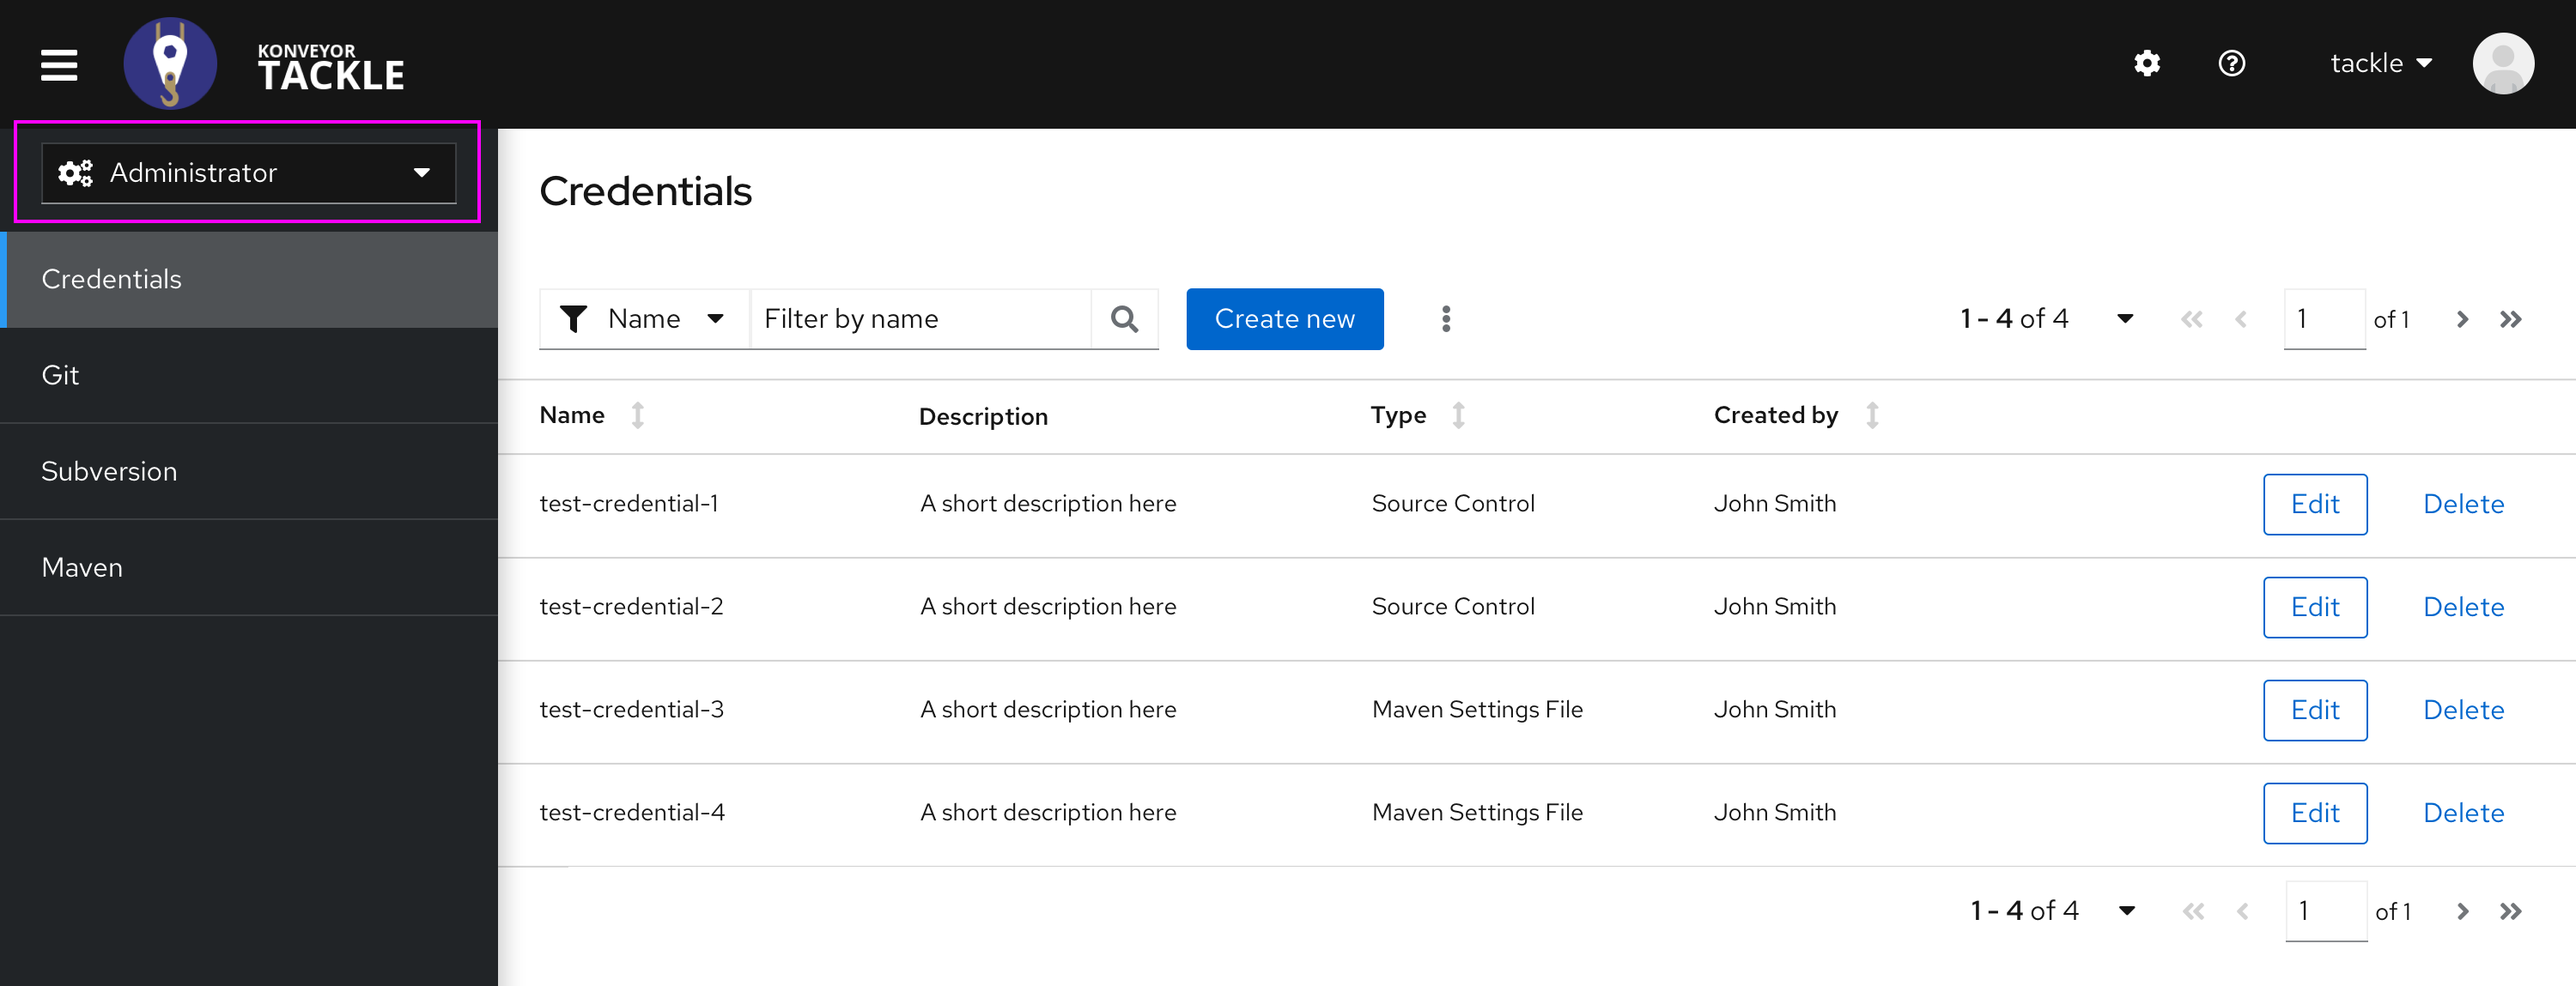
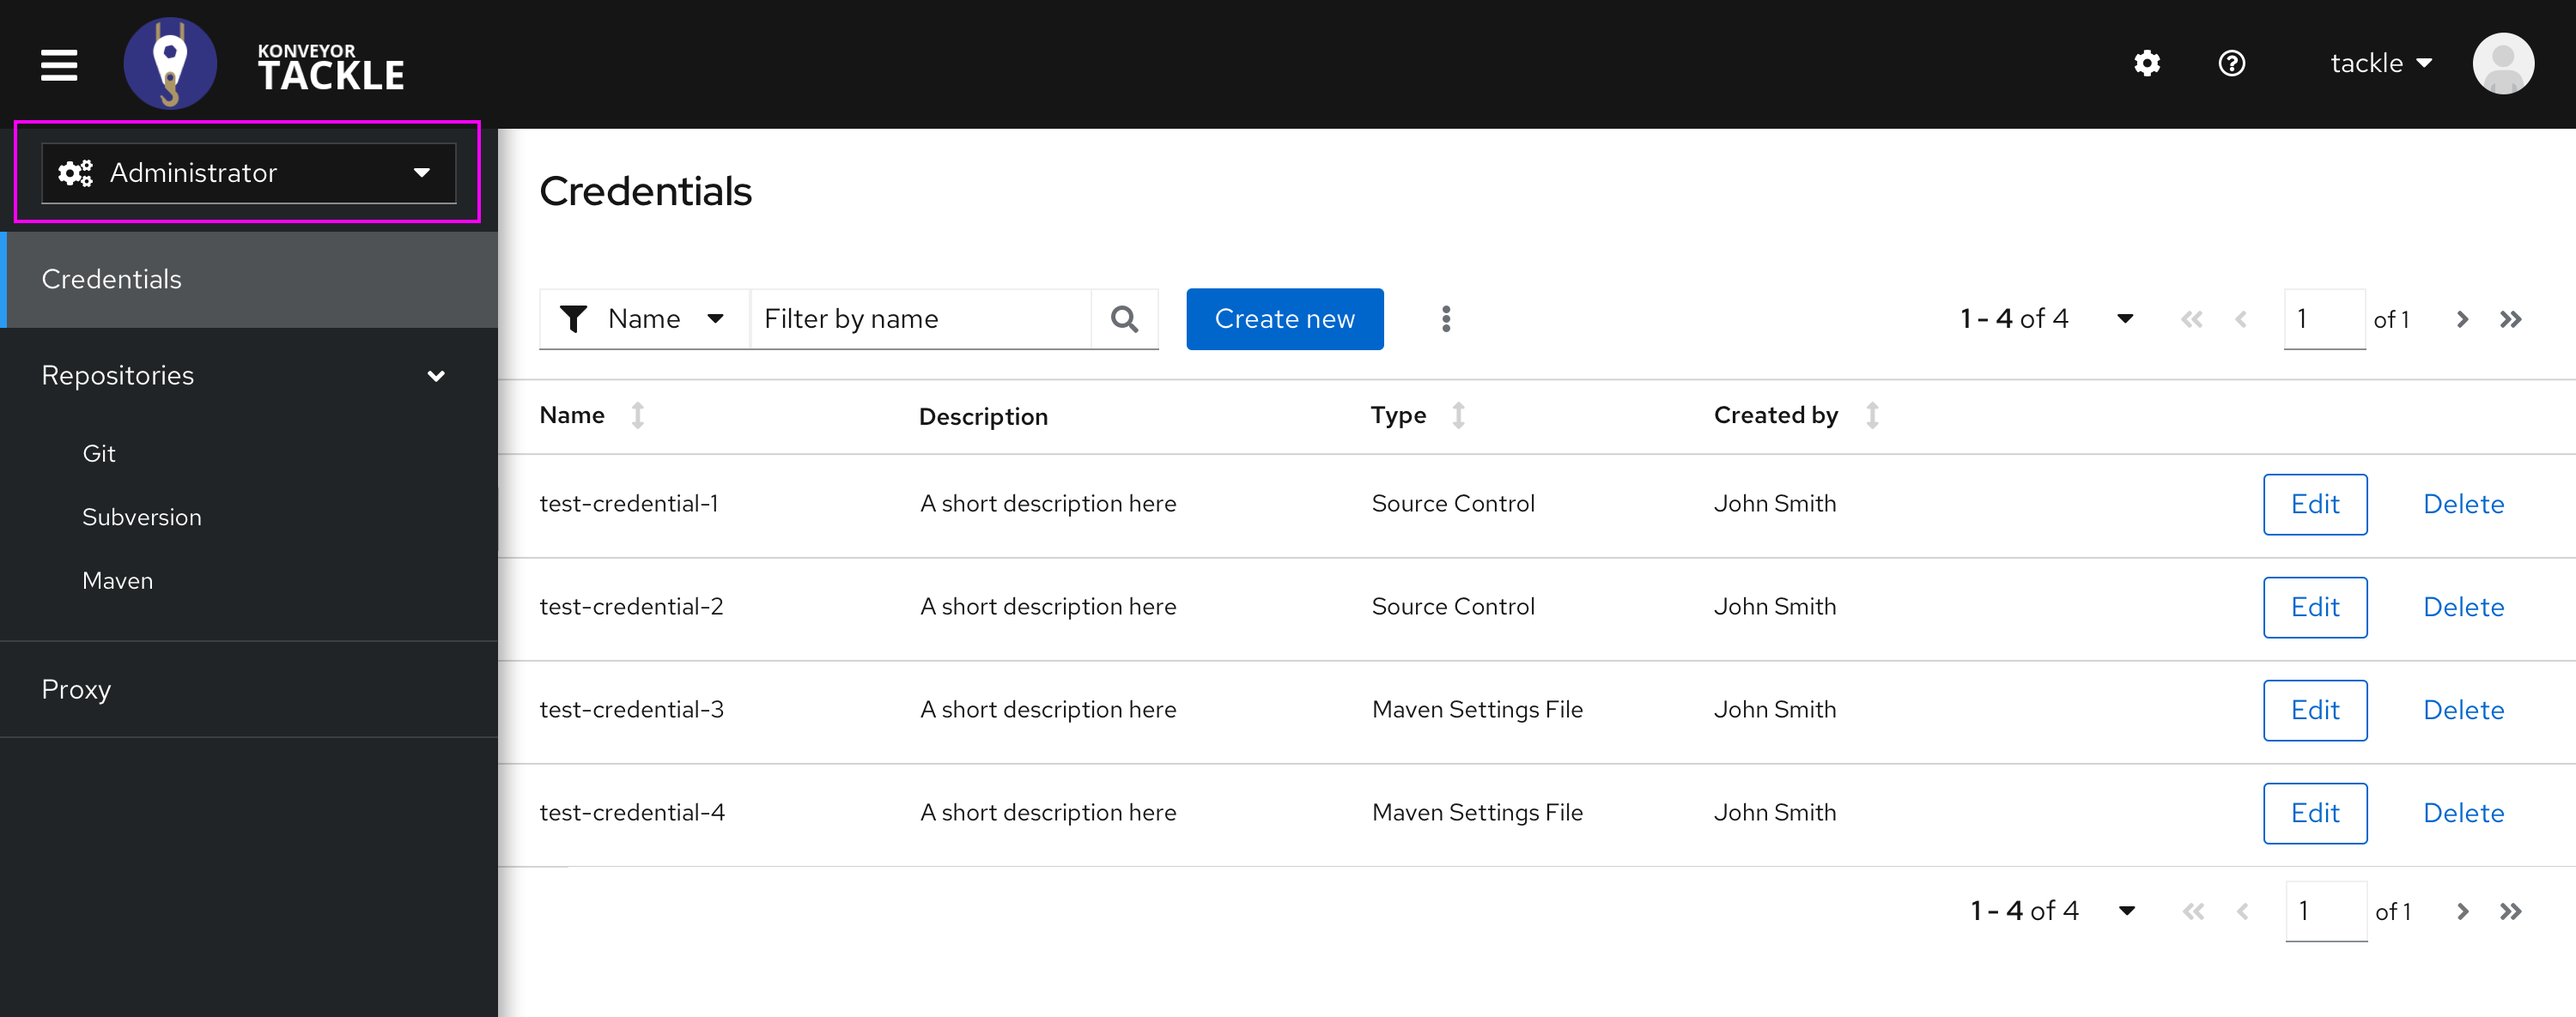
Added new sections.

diff --git a/enhancements/tackle/tackle-git-maven-integration/README.md b/enhancements/tackle/tackle-git-maven-integration/README.md
@@ -7,7 +7,7 @@ reviewers:
 approvers:
   - TBD
 creation-date: 2021-11-20
-last-updated: 2022-01-50
+last-updated: 2022-01-12
 status: provisional
 see-also:
   -   
@@ -29,7 +29,7 @@ superseded-by:
 
 ## Open Questions
 
-
+None so far.
 
 
 ## Summary
@@ -121,7 +121,9 @@ A member of the operations or security team of the organization undergoing the a
 
 *As an Architect I want to be able to assign existing credentials to applications on a per application or bulk basis.*
 
+##### CM008
 
+*As a Migrator or an Architect I want to be able to filter applications by the type of credentials assigned to it*
 
 #### Git Configuration
 
@@ -141,6 +143,10 @@ A member of the operations or security team of the organization undergoing the a
 ##### GC004
 
 *As an Architect I want to be able to associate a Git repository to an application.*
+
+##### GC005
+
+*As a Migrator or an Architect I want to be able to filter applications by having a Git repository assigned*
 
 
 
@@ -162,6 +168,10 @@ A member of the operations or security team of the organization undergoing the a
 ##### SC004
 
 *As an Architect I want to be able to associate a Subversion repository to an application.*
+
+##### SC005
+
+*As a Migrator or an Architect I want to be able to filter applications by having a Subversion repository assigned*
 
 #### Maven Configuration
 
@@ -189,6 +199,10 @@ A member of the operations or security team of the organization undergoing the a
 ##### MC006
 
 *As an Architect I want to be able to associate an artifact with an application.*
+
+##### MC007
+
+*As a Migrator or an Architect I want to be able to filter applications by having a Maven artifact assigned*
 
 
 #### Proxy Configuration
@@ -396,6 +410,8 @@ Clicking on the "Git" suboption under the "Repositories" option on the left menu
   - Acquire by performing a full clone on each analysis.
 - Consume insecure Git repositories: Switch.
 
+![Git Configuration](images/git-config.png?raw=true "Git Configuration")
+
 #### Subversion Configuration
 
 ##### Related Use Cases
@@ -418,6 +434,8 @@ Clicking on the "Subversion" suboption under the "Repositories" option on the le
   - Acquire via an update.
   - Acquire by performing a full checkout on each analysis.
 - Consume insecure Subversion repositories: Switch.
+
+![Subversion Configuration](images/svn-config.png?raw=true "Subversion Configuration")
 
 
 #### Maven Configuration
@@ -444,7 +462,13 @@ Clicking on the "Maven" suboption under the "Repositories" option on the left me
 - Force update of dependencies: Switch. Disabled by default.
 - Consume insecure artifact repositories: Switch. Disabled by default.
 
+![Maven Configuration](images/maven-config.png?raw=true "Maven Configuration")
+
 The view must include a button "Clear repository" to purge the local Maven repository. Clicking on it will open a confirmation window with the following message: *This will clear the local Maven repository and considerably slow down builds until dependencies are collected again. Do you wish to continue?*.
+
+It would be advisable to include tooltips to explain fields:
+
+![Maven Configuration](images/maven-config-onhover.png?raw=true "Maven Configuration")
 
 
 #### Proxy Configuration
@@ -471,15 +495,21 @@ The Proxy configuration view can be reached by clicking on the “Proxy” optio
 - HTTP proxy: Switch, disabled by default.
 - HTTPS proxy: Switch, disabled by default.
 
+![Proxy Configuration](images/proxy-config.png?raw=true "Proxy Configuration")
+
 Enabling the "HTTP proxy" switch will dynamically load the following nested fields:
 
 - HTTP proxy host: String
 - HTTP proxy port: Numeric
 - Authentication: Switch, disabled by default.
 
+![Proxy Configuration](images/proxy-config-http.png?raw=true "Proxy Configuration")
+
 If the user enables the "Authentication" switch, the following nested field will load dynamically:
 
 - HTTP proxy credentials: Dropdown, single selection. Values are populated from available Proxy credentials.
+
+![Proxy Configuration](images/proxy-config-http-auth.png?raw=true "Proxy Configuration")
 
 Similarly, if the user enables the "HTTPS proxy" switch, the following nested fields will be loaded dynamically:
 
@@ -487,9 +517,13 @@ Similarly, if the user enables the "HTTPS proxy" switch, the following nested fi
 - HTTPS proxy port: Numeric
 - Authentication: Switch, disabled by default.
 
+![Proxy Configuration](images/proxy-config-https.png?raw=true "Proxy Configuration")
+
 In the same fashion as before, if the user enables the "Authentication" switch, the following nested field will load dynamically:
 
 - HTTPS proxy credentials: Dropdown, single selection. Values are populated from available Proxy credentials.
+
+![Proxy Configuration](images/proxy-config-https-auth.png?raw=true "Proxy Configuration")
 
 Enabling any of the "HTTP proxy" or "HTTPS proxy" switches will dynamically load the following field at the bottom of the screen:
 
@@ -511,12 +545,62 @@ This field should not look nested to either of the switches, as it applies to bo
 
 ##### Description
 
+###### Bulk Assignment
 
-#### Assign Credentials to Applications
+The Application Inventory view will include a new button “Manage Credentials” in the kebab menu of the main table. This button will be enabled only if at least one application has been selected on the table below.
+
+
+![Bulk Assignment](images/assign-credentials-bulk.png?raw=true "Bulk Assignment")
+
+
+Clicking on the button will open a modal window with the following fields:
+
+
+- Selected applications: List of the selected applications. Non-editable.
+- Source credentials: Dropdown
+- Maven settings: Dropdown
+
+![Bulk Assignment](images/assign-credentials-bulk-modal.png?raw=true "Bulk Assignment")
+
+If all the applications selected happen to have the same values for a field, it will appear selected. If not, the field will appear with no selection. The values for each field will come from the list of credentials already available in the system:
+
+- The Source credentials dropdown will display a list with all Source credentials available on the system.
+- The Maven credentials dropdown will display a list of all Maven Settings file credentials available on the system.
+
+![Bulk Assignment](images/assign-credentials-bulk-modal-filled.png?raw=true "Bulk Assignment")
+
+If any of the applications already has any credentials assigned, a warning should be displayed on the modal window.
+
+Clicking on Save will assign the credentials to the selected applications. After the assignment is done, credentials type should appear on the expandable section for each application details:
+
+![Bulk Assignment](images/assign-credentials-bulk-result.png?raw=true "Bulk Assignment")
+
+Possible values will be Source and Source & Maven.
+
+
+###### Individual Assignment
+
+Credentials can also be assigned on a per application basis. The kebab menu on each application row will include a new option "Manage credentials".
+
+![Individual Assignment](images/assign-credentials-single.png?raw=true "Individual Assignment")
+
+This will open a modal window with the following fields:
+
+- Application: Selected application. Non-editable.
+- Source credentials: Dropdown
+- Maven settings: Dropdown
+
+![Individual Assignment](images/assign-credentials-single-modal.png?raw=true "Individual Assignment")
+
+The Save button won't be enabled unless changes are made on any of the editable fields.
+
+#### Repository configuration at Application level
 
 ##### Related Use Cases
 
-- [CM006](#CM006)
+- [GC004](#GC004)
+- [SC004](#SC004)
+- [MC006](#MC006)
 
 ##### Involved Personas
 
@@ -525,6 +609,70 @@ This field should not look nested to either of the switches, as it applies to bo
 
 ##### Description
 
+Application creation and edition modal windows will be rearranged to accommodate repository information. The windows will be divided in three expandable sections, with different field on each one of them:
+
+-  Basic Information:
+  - Name: String. Required.
+  - Description: Textbox.
+  - Business service: Dropdown. Multiple selection. Values are populated from the list of available Business Services.
+  - Tags: Dropdown. Multiple selection. Values are populated from the list of available Tags.
+  - Comments: Textbox.
+
+![Repository configuration](images/new-app-basic.png?raw=true "Repository configuration")
+
+- Source code:
+  - Source repository: String. Required if either Branch or Root path have any value.
+  - Branch: String.
+  - Root path: String.
+
+![Repository configuration](images/new-app-source.png?raw=true "Repository configuration")
+
+- Binary:
+  - Group: String. Required if any other field from the Binary section has a value.
+  - Artifact: String. Required if any other field from the Binary section has a value.
+  - Version: String. Required if any other field from the Binary section has a value.
+  - Repository URL: String. Required if any other field from the Binary section has a value.
+
+![Repository configuration](images/new-app-binary.png?raw=true "Repository configuration")
+
+Some validations rules will be required, as source and binary fields are not mandatory but partially filling them shouldn't be allowed. If the user enters partial values on the Source or Binary sections, validation will be executed when clicking the "Create" button. For example, if the user only enters the Group for a binary:
+
+![Repository configuration](images/new-app-binary-validation1.png?raw=true "Repository configuration")
+
+Validation will be executed when clicking on the create button, indicating the missing fields:
+
+![Repository configuration](images/new-app-binary-validation2.png?raw=true "Repository configuration")
+
+The same applies for fields in the Source section when Branch or Root path values are entered without a repository.
+
+Based on the Source repository URL, the system should be able to determine the repository kind (Git or Subversion) and store it accordingly.
+
+#### Additional filtering
+
+##### Related Use Cases
+
+- [CM008](#CM008)
+- [GC005](#GC005)
+- [SC005](#SC005)
+- [MC007](#MC007)
+
+##### Involved Personas
+
+- [Architect](#architect)
+- [Migrator](#migrator)
+
+
+##### Description
+
+New filters should be implemented to allow filtering based on criteria related to the new information available on the application profile:
+
+- **Credentials**: Kind of credentials assigned to a given application. Values:
+  - Source
+  - Maven
+  - None
+- **Git repository**: Applications that have an associated Git repository.
+- **Subversion repository**: Applications that have an associated Subversion repository.
+- **Maven artifact**: Applications that have an associated Maven artifact.
 
 ### Implementation Details/Notes/Constraints
 
